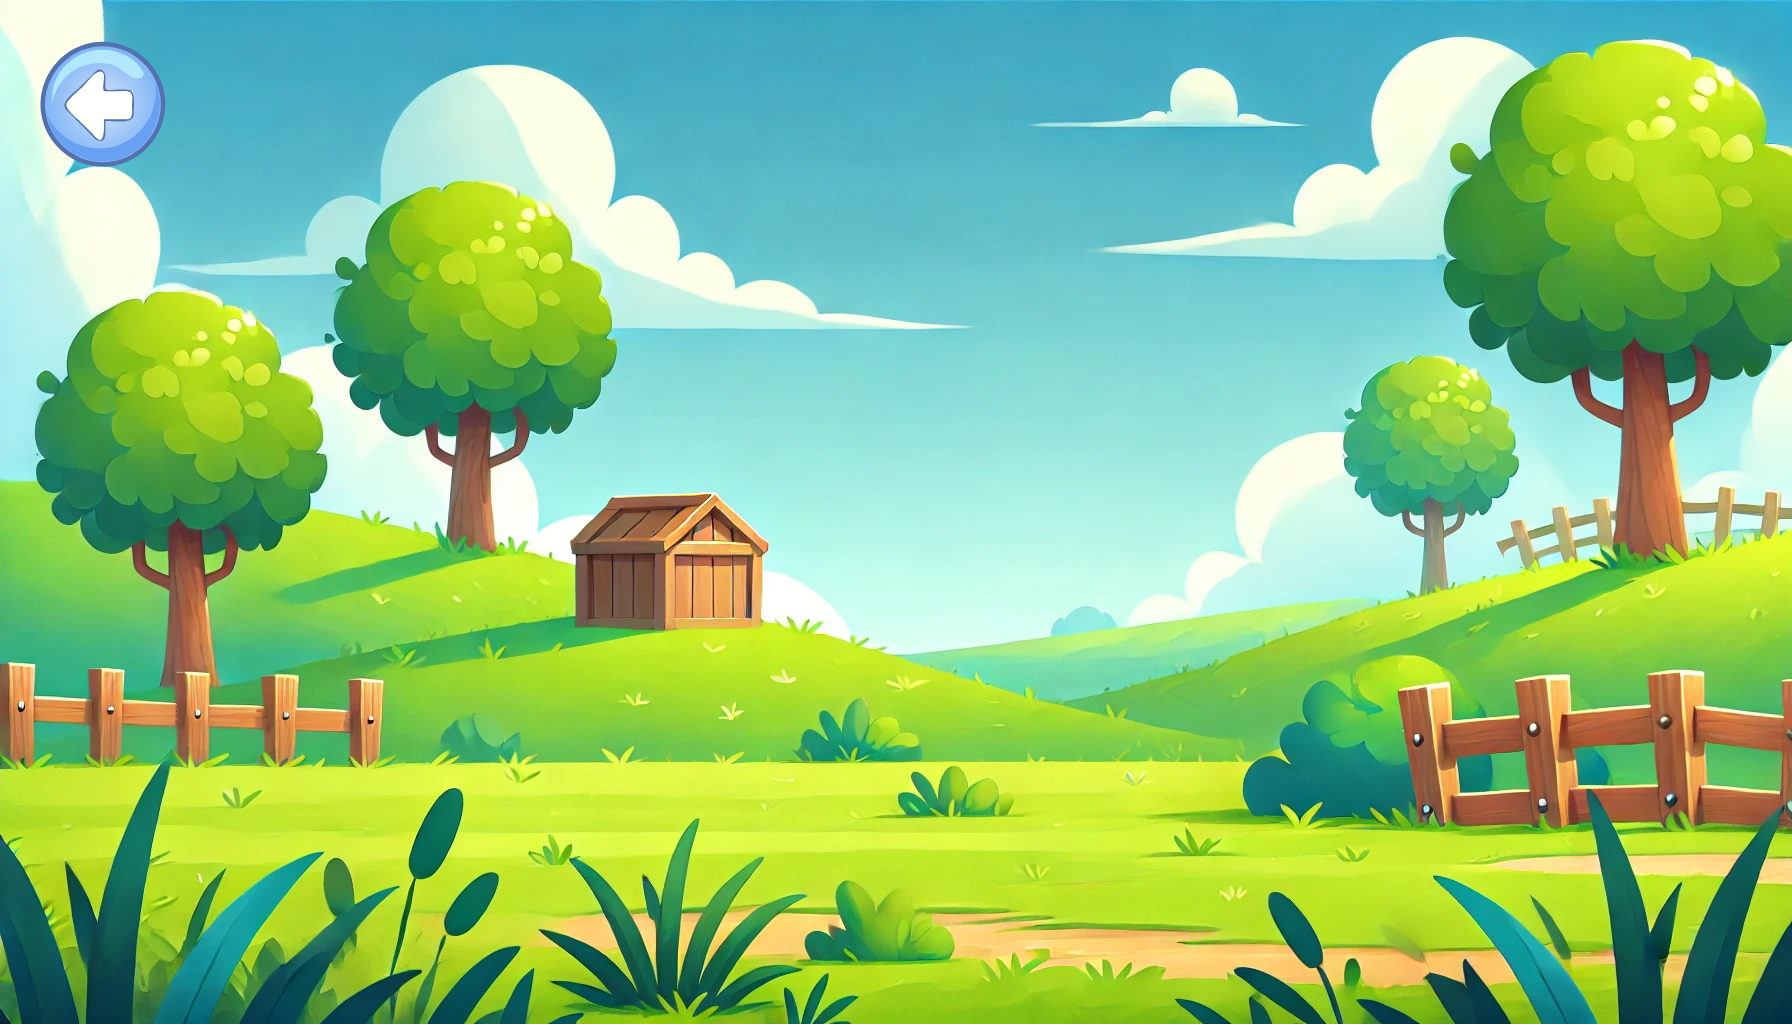
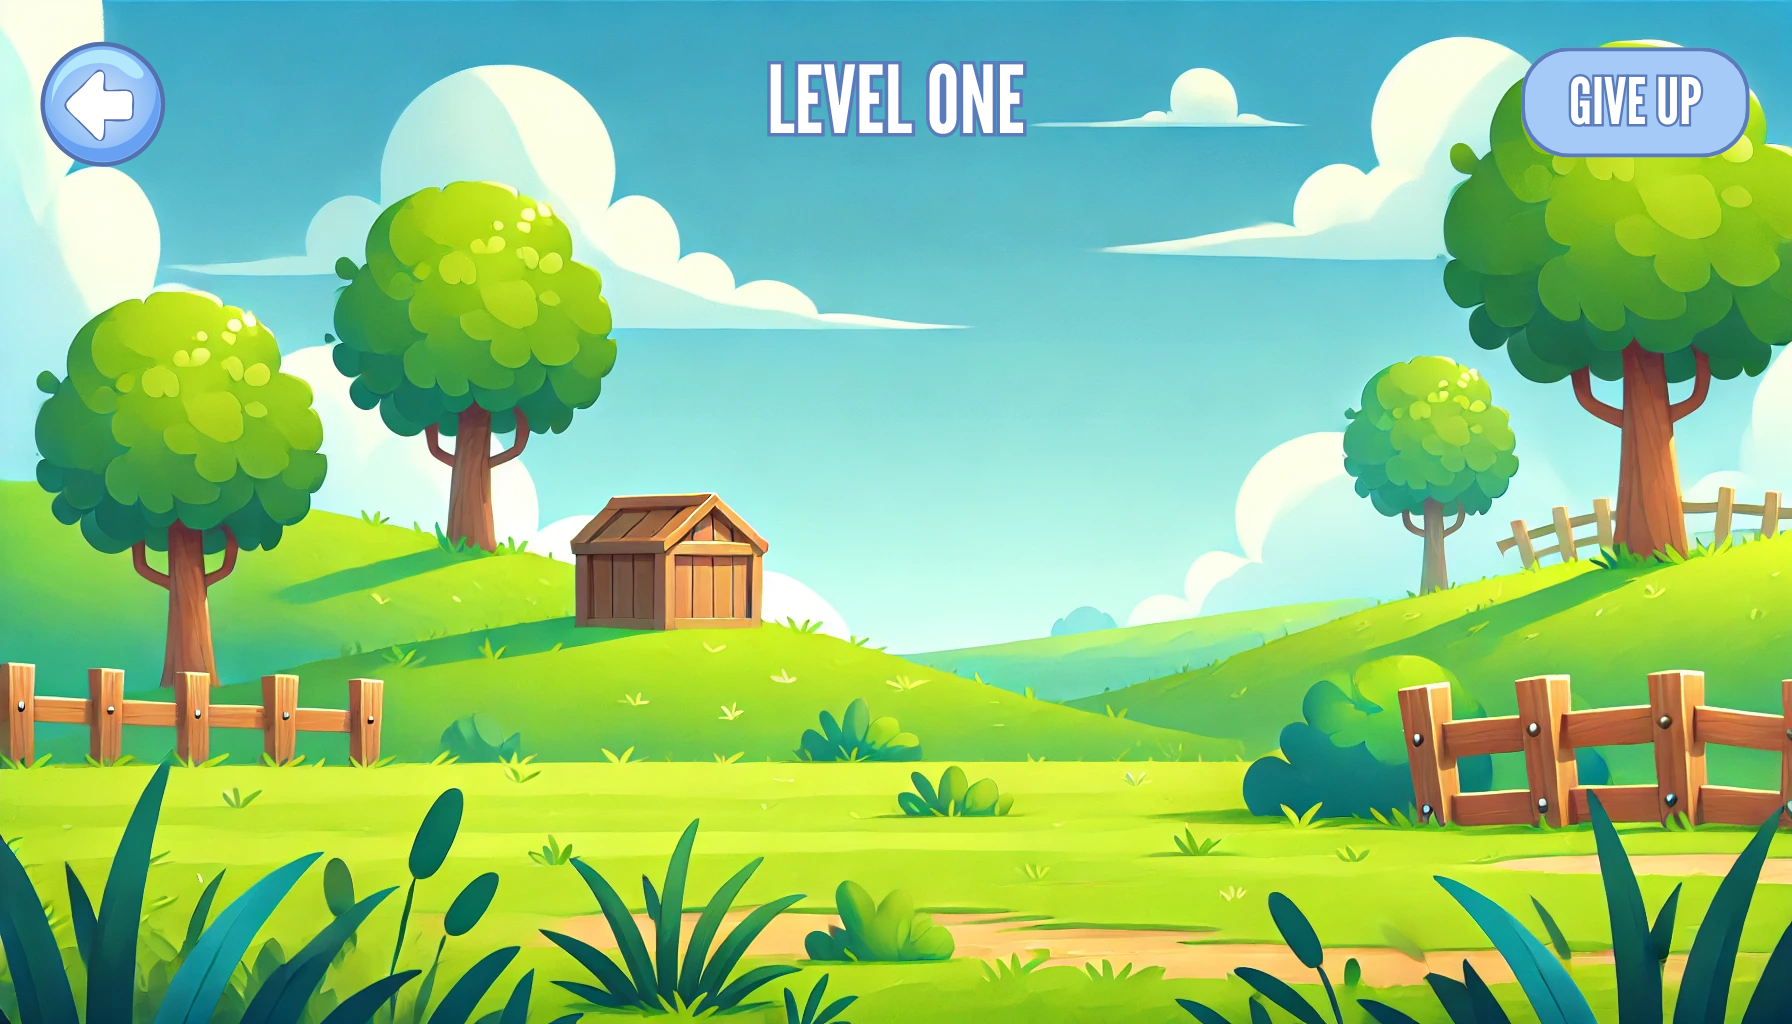
Added buttons to gamelost won and completed screens and changed menu screens

Changed region(s): [[0.8438, 0.0312, 1.0, 0.1562], [0.4062, 0.0625, 0.5938, 0.1562]]

diff --git a/GAME CODE/core/src/main/java/com/badlogic/drop/Screens/ProfileMenuAllScreen.java b/GAME CODE/core/src/main/java/com/badlogic/drop/Screens/ProfileMenuAllScreen.java
@@ -34,10 +34,10 @@ public class ProfileMenuAllScreen implements Screen {
         gamecam = new OrthographicCamera();
         gameport = new FitViewport(1792,1024,gamecam);
         gamecam.position.set(1792 / 2f, 1024 / 2f, 0);
-        User1ButtonBounds = new Rectangle(167,  1024 - 379 - 460, 441, 460);
-        User2ButtonBounds = new Rectangle(675, 1024 - 379 - 460, 441, 460);
-        User3ButtonBounds = new Rectangle(1183, 1024 - 379 - 460, 441, 460);
-        GobackButtonBounds = new Rectangle(40, 1024 - 41 - 95, 146, 95);
+        User1ButtonBounds = new Rectangle(693,  1024 - 467 - 104, 426, 104);
+        User2ButtonBounds = new Rectangle(693, 1024 - 605 - 104, 426, 104);
+        User3ButtonBounds = new Rectangle(693, 1024 - 744 - 104, 426, 104);
+        GobackButtonBounds = new Rectangle(35, 1024 - 35 - 135 , 134 , 135);
         font = new BitmapFont();
         font.setColor((Color.WHITE));
         font.getData().setScale(2);
@@ -72,9 +72,9 @@ public class ProfileMenuAllScreen implements Screen {
         game.getBatch().begin();
         game.getBatch().draw(texture, 0, 0);
         //drawingg names on each box
-        font.draw(game.getBatch(),profiles[0],218,515);
-        font.draw(game.getBatch(),profiles[1],730,512);
-        font.draw(game.getBatch(),profiles[2],1217,515);
+        font.draw(game.getBatch(),profiles[0],850,1024 - 467 -35);
+        font.draw(game.getBatch(),profiles[1],850,1024 -(605+35));
+        font.draw(game.getBatch(),profiles[2],850,1024 - (744+ 35));
         game.getBatch().end();
         handleInput();
     }

diff --git a/GAME CODE/core/src/main/java/com/badlogic/drop/Screens/Level1Screen.java b/GAME CODE/core/src/main/java/com/badlogic/drop/Screens/Level1Screen.java
@@ -18,6 +18,7 @@ public class Level1Screen implements Screen {
     private OrthographicCamera gamecam;
     private Viewport gameport;
     private final Rectangle GoBackButtonBounds;
+    private final Rectangle GiveUpButtonBounds;
 
     //CONSTRUCTOR
     public Level1Screen(Angry_Birds_Game _game){
@@ -27,6 +28,7 @@ public class Level1Screen implements Screen {
         gameport = new FitViewport(1792,1024,gamecam);
         gamecam.position.set(1792 / 2f, 1024 / 2f, 0);
         GoBackButtonBounds = new Rectangle(35 , 1024 -35 -134 ,133 ,134);
+        GiveUpButtonBounds = new Rectangle(1521 , 1024 -47 -110 ,228 ,110);
     }
 
     //GETTERS AND SETTERS
@@ -75,6 +77,14 @@ public class Level1Screen implements Screen {
 
             if (GoBackButtonBounds.contains(touchX, touchY)) {
                 game.setScreen(new LevelsMenuAllScreen(game)); // Navigate to Level1Screen
+                dispose();
+            }
+            else if (GiveUpButtonBounds.contains(touchX, touchY)) {
+                game.setScreen(new GameLostScreen(game,1)); // Navigate to Level1Screen
+                dispose();
+            }
+            else{
+                game.setScreen(new GameWonScreen(game,1)); // Navigate to Level1Screen
                 dispose();
             }
         }

diff --git a/GAME CODE/core/src/main/java/com/badlogic/drop/Screens/Level3Screen.java b/GAME CODE/core/src/main/java/com/badlogic/drop/Screens/Level3Screen.java
@@ -19,6 +19,7 @@ public class Level3Screen implements Screen {
     private OrthographicCamera gamecam;
     private Viewport gameport;
     private final Rectangle GoBackButton;
+    private final Rectangle GiveUpButtonBounds;
 
     //CONSTRUCTOR
     public Level3Screen(Angry_Birds_Game _game){
@@ -28,6 +29,7 @@ public class Level3Screen implements Screen {
         gameport = new FitViewport(1792,1024,gamecam);
         gamecam.position.set(1792 / 2f, 1024 / 2f, 0);
         GoBackButton = new Rectangle(35, 1024 - 35 - 135 , 134 , 135);
+        GiveUpButtonBounds = new Rectangle(1521 , 1024 -47 -110 ,228 ,110);
     }
 
     //GETTERS AND SETTERS
@@ -75,6 +77,14 @@ public class Level3Screen implements Screen {
 
             if (GoBackButton.contains(touchX, touchY)) {
                 game.setScreen(new LevelsMenuAllScreen(game)); // Navigate to Level1Screen
+                dispose();
+            }
+            else if (GiveUpButtonBounds.contains(touchX, touchY)) {
+                game.setScreen(new GameLostScreen(game,3)); // Navigate to Level1Screen
+                dispose();
+            }
+            else{
+                game.setScreen(new GameCompletedScreen(game)); // Navigate to Level1Screen
                 dispose();
             }
         }

diff --git a/GAME CODE/core/src/main/java/com/badlogic/drop/Screens/Level2Screen.java b/GAME CODE/core/src/main/java/com/badlogic/drop/Screens/Level2Screen.java
@@ -19,6 +19,8 @@ public class Level2Screen implements Screen {
     private OrthographicCamera gamecam;
     private Viewport gameport;
     private final Rectangle GoBackButton;
+    private final Rectangle GiveUpButtonBounds;
+
 
     //CONSTRUCTOR
     public Level2Screen(Angry_Birds_Game _game){
@@ -28,6 +30,7 @@ public class Level2Screen implements Screen {
         gameport = new FitViewport(1792,1024,gamecam);
         gamecam.position.set(1792 / 2f, 1024 / 2f, 0);
         GoBackButton = new Rectangle(19, 1024 - 35 - 136 , 133 , 133);
+        GiveUpButtonBounds = new Rectangle(1521 , 1024 -47 -110 ,228 ,110);
     }
 
     //GETTERS AND SETTERS
@@ -83,6 +86,14 @@ public class Level2Screen implements Screen {
 
             if (GoBackButton.contains(touchX, touchY)) {
                 game.setScreen(new LevelsMenuAllScreen(game)); // Navigate to Level1Screen
+                dispose();
+            }
+            else if (GiveUpButtonBounds.contains(touchX, touchY)) {
+                game.setScreen(new GameLostScreen(game,2)); // Navigate to Level1Screen
+                dispose();
+            }
+            else{
+                game.setScreen(new GameWonScreen(game,2)); // Navigate to Level1Screen
                 dispose();
             }
         }

diff --git a/GAME CODE/core/src/main/java/com/badlogic/drop/Screens/LevelsMenuAllScreen.java b/GAME CODE/core/src/main/java/com/badlogic/drop/Screens/LevelsMenuAllScreen.java
@@ -30,10 +30,10 @@ public class LevelsMenuAllScreen implements Screen {
         gamecam = new OrthographicCamera();
         gameport = new FitViewport(1792,1024,gamecam);
         gamecam.position.set(1792 / 2f, 1024 / 2f, 0);
-        Level1ButtonBounds = new Rectangle(167,  1024 - 379 - 460, 441, 460);
-        Level2ButtonBounds = new Rectangle(675, 1024 - 379 - 460, 441, 460);
-        Level3ButtonBounds = new Rectangle(1183, 1024 - 379 - 460, 441, 460);
-        GobackButtonBounds = new Rectangle(40, 1024 - 41 - 95, 146, 95);
+        Level1ButtonBounds = new Rectangle(682,  1024 - 439 - 125, 426, 125);
+        Level2ButtonBounds = new Rectangle(682, 1024 - 589 - 125, 426, 125);
+        Level3ButtonBounds = new Rectangle(682, 1024 - 738 - 125, 426, 125);
+        GobackButtonBounds = new Rectangle(35, 1024 - 35 - 135 , 134 , 135);
     }
 
     //GETTERS AND SETTERS

diff --git a/GAME CODE/core/src/main/java/com/badlogic/drop/Screens/GameLostScreen.java b/GAME CODE/core/src/main/java/com/badlogic/drop/Screens/GameLostScreen.java
@@ -25,7 +25,7 @@ public class GameLostScreen implements Screen {
     public GameLostScreen(Angry_Birds_Game _game, int _level){
         this.game = _game;
         this.level = _level;
-        texture = new Texture("GameWon.png");
+        texture = new Texture("GameLost.png");
         gamecam = new OrthographicCamera();
         gameport = new FitViewport(1792,1024,gamecam);
         gamecam.position.set(1792 / 2f, 1024 / 2f, 0);

diff --git a/GAME CODE/core/src/main/java/com/badlogic/drop/Screens/GameCompletedScreen.java b/GAME CODE/core/src/main/java/com/badlogic/drop/Screens/GameCompletedScreen.java
@@ -26,7 +26,7 @@ public class GameCompletedScreen implements Screen {
         gamecam = new OrthographicCamera();
         gameport = new FitViewport(1792,1024,gamecam);
         gamecam.position.set(1792 / 2f, 1024 / 2f, 0);
-        MainMenuButtonBounds = new Rectangle(715, 1024 - 672 - 120, 350, 120);
+        MainMenuButtonBounds = new Rectangle(756, 1024 - 775 - 112, 320, 112);
     }
 
     //GETTERS AND SETTERS
